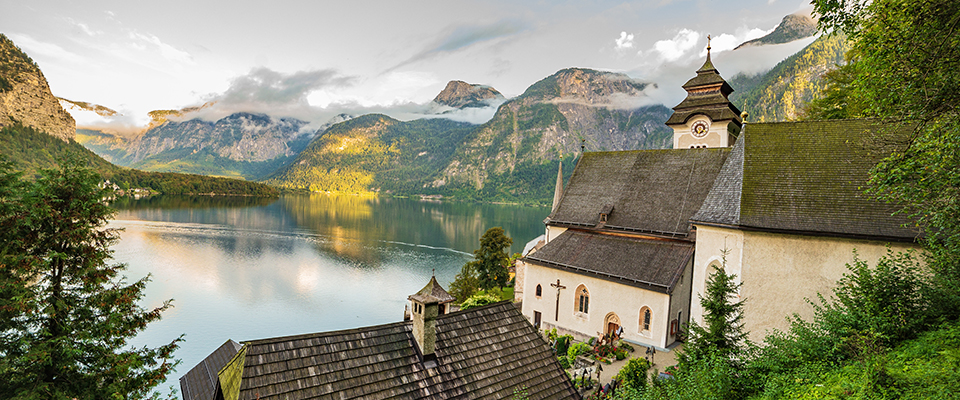
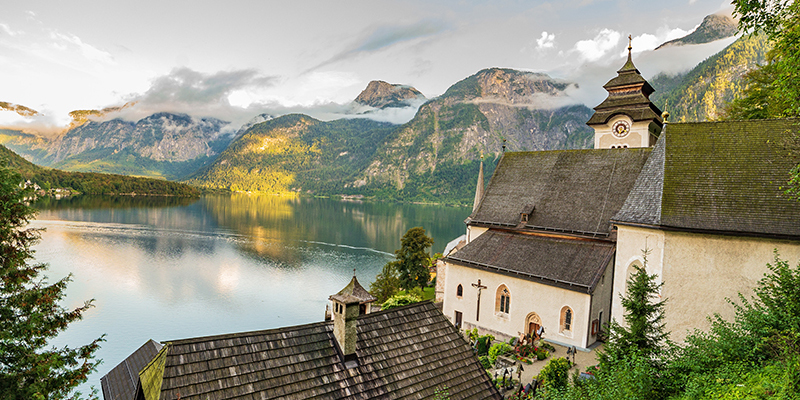
W06 Assignment Update 2
A second update of my W06 assignent.

diff --git a/assignments/lesson-6/preston-6.html b/assignments/lesson-6/preston-6.html
@@ -1,43 +1,46 @@
 <!DOCTYPE html>
 <html>
-    <head>
-        <meta charset="utf-8">
-        <meta name="viewport" content="width=device-width, initial-scale=1, maximum-scale=1">
-        <title>CIT 230 Assignment | Week 04 | Preston Town Page</title>
-        <meta name="description" content="Preston Town Page Build">
-        <link rel="stylesheet" href="css/normalize.css">
-        <link rel="stylesheet" href="css/small-6.css">
-        <link rel="stylesheet" href="css/large-6.css">
-        <link href="https://fonts.googleapis.com/css?family=Nunito&display=swap" rel="stylesheet">
-    </head>
-    <body>
-        <!-- Header Codes Here -->
-        <header>
-            <img src="images/weatheria-logo-01.png" alt="Weatheria Logo">
-            <h1>Weatheria</h1>
-            <h2>Your Personal Weather Companion</h2>
-        </header>
 
-        <!-- Navigation Codes Here -->
-        <nav class="clearfix">
-            <ul>
-                <li><a href="#">Home</a></li>
-                <li class="active"><a href="#">Preston</a></li>
-                <li><a href="#">Soda Springs</a></li>
-                <li><a href="#">Fish Haven</a></li>
-                <li><a href="#">Storm Center</a></li>
-                <li><a href="#">Gallery</a></li>
-            </ul>
-        </nav>
+<head>
+    <meta charset="utf-8">
+    <meta name="viewport" content="width=device-width, initial-scale=1, maximum-scale=1">
+    <title>CIT 230 Assignment | Week 04 | Preston Town Page</title>
+    <meta name="description" content="Preston Town Page Build">
+    <link rel="stylesheet" href="css/normalize.css">
+    <link rel="stylesheet" href="css/small-6.css">
+    <link rel="stylesheet" href="css/large-6.css">
+    <link href="https://fonts.googleapis.com/css?family=Nunito&display=swap" rel="stylesheet">
+</head>
 
-        <!-- Main Codes Here -->
-        <main>
-            
-            <section class="sctn sctn-01">
+<body>
+    <!-- Header Codes Here -->
+    <header>
+        <img src="images/weatheria-logo-01.png" alt="Weatheria Logo">
+        <h1>Weatheria</h1>
+        <h2>Your Personal Weather Companion</h2>
+    </header>
+
+    <!-- Navigation Codes Here -->
+    <nav class="clearfix">
+        <button onclick="toggleMenu()">&#9776;</button>
+        <ul id="primaryNav" class="hide">
+            <li><a href="#">Home</a></li>
+            <li class="active"><a href="#">Preston</a></li>
+            <li><a href="#">Soda Springs</a></li>
+            <li><a href="#">Fish Haven</a></li>
+            <li><a href="#">Storm Center</a></li>
+            <li><a href="#">Gallery</a></li>
+        </ul>
+    </nav>
+
+    <!-- Main Codes Here -->
+    <main>
+
+        <section class="sctn sctn-01">
             <h1>Preston Town</h1>
             <div class="sctn-hero">
                 <figure>
-                    <img src="images/img-hero.jpg" alt="Preston Town">
+                    <img src="images/img-hero-600px.jpg" alt="Preston Town">
                 </figure>
                 <table>
                     <th colspan="2">Weather Summary</th>
@@ -63,9 +66,9 @@
                     </tr>
                 </table>
             </div>
-            </section>
+        </section>
 
-                <!--
+        <!--
                 <div class="forecast-div">
                     <section class="forecast-sec">
                         <h2>5 Day Forecast</h2>
@@ -89,49 +92,57 @@
                 </div>
                 -->
 
-            <section class="sctn sctn-03">
-                <figure>
-                    <img src="images/img-art.jpg" alt="friends photo">
-                </figure>
-                <article>
-                    <h2> Friends Review </h2>
-                    <h3> By: Edvard Jimenez </h3>
-                    <p>
-                        Lorem ipsum dolor sit amet, consectetur adipiscing elit, sed do eiusmod tempor incididunt ut labore et dolore magna aliqua.
-                        Sit amet consectetur adipiscing elit duis tristique sollicitudin.
-                        Integer malesuada nunc vel risus commodo viverra.
-                        Eget gravida cum sociis natoque penatibus et magnis.
-                        Auctor urna nunc id cursus metus aliquam. Leo vel fringilla est ullamcorper.
-                        Mauris in aliquam sem fringilla ut morbi tincidunt augue interdum.
-                    </p>
-                </article>
-            </section>
-        </main>
-
-            <!-- Footer Codes Here -->
-        <footer>
-            <div class="footer-info">
-                <h2>Weatheria</h2>
-                <hr>
+        <section class="sctn sctn-03">
+            <figure>
+                <img src="images/img-art.jpg" alt="friends photo">
+            </figure>
+            <article>
+                <h2> Friends Review </h2>
+                <h3> By: Edvard Jimenez </h3>
                 <p>
-                    Exact Address, <br>
-                    Town, City, Zipcode
-                    <br><br>
-                    Telephone Number<br>
-                    Email Address
-                    <br><br>
-                    <a href="https://www.facebook.com/" target="_blank"><img class="footer-icon" src="images/facebook.png" alt="facebook icon"></a>
-                    <a href="https://instagram.com/" target="_blank"><img class="footer-icon" src="images/instagram.png" alt="instagram icon"></a>
-                    <a href="https://twitter.com/" target="_blank"><img class="footer-icon" src="images/twitter.png" alt="twitter icon"></a>
-                    <a href="https://youtube.com/" target="_blank"><img class="footer-icon" src="images/youtube.png" alt="youtube icon"></a>
+                    Lorem ipsum dolor sit amet, consectetur adipiscing elit, sed do eiusmod tempor incididunt ut labore
+                    et dolore magna aliqua.
+                    Sit amet consectetur adipiscing elit duis tristique sollicitudin.
+                    Integer malesuada nunc vel risus commodo viverra.
+                    Eget gravida cum sociis natoque penatibus et magnis.
+                    Auctor urna nunc id cursus metus aliquam. Leo vel fringilla est ullamcorper.
+                    Mauris in aliquam sem fringilla ut morbi tincidunt augue interdum.
                 </p>
-                <figure>
-                    <img src="images/img-map.jpg" alt="map">
-                </figure>
-            </div>
-            <div class="footer-copy">
-                <p>&copy;2019 Weatheria | Edvard Jimenez | CIT 230</p>
-            </div>
-        </footer>
-    </body>
+            </article>
+        </section>
+    </main>
+
+    <!-- Footer Codes Here -->
+    <footer>
+        <div class="footer-info">
+            <h2>Weatheria</h2>
+            <hr>
+            <p>
+                Exact Address, <br>
+                Town, City, Zipcode
+                <br><br>
+                Telephone Number<br>
+                Email Address
+                <br><br>
+                <a href="https://www.facebook.com/" target="_blank"><img class="footer-icon" src="images/facebook.png"
+                        alt="facebook icon"></a>
+                <a href="https://instagram.com/" target="_blank"><img class="footer-icon" src="images/instagram.png"
+                        alt="instagram icon"></a>
+                <a href="https://twitter.com/" target="_blank"><img class="footer-icon" src="images/twitter.png"
+                        alt="twitter icon"></a>
+                <a href="https://youtube.com/" target="_blank"><img class="footer-icon" src="images/youtube.png"
+                        alt="youtube icon"></a>
+            </p>
+            <figure>
+                <img src="images/img-map.jpg" alt="map">
+            </figure>
+        </div>
+        <div class="footer-copy">
+            <p>&copy;2019 Weatheria | Edvard Jimenez | CIT 230</p>
+        </div>
+    </footer>
+
+    <script src="scripts/hamburger.js"></script>
+</body>
+
 </html>

diff --git a/assignments/lesson-6/css/small-6.css b/assignments/lesson-6/css/small-6.css
@@ -16,22 +16,53 @@ header {
     padding: 1rem 2%;
 }
 
-header h1 { margin: 0; }
-header h2 { margin: 0; }
+header img {
+    display: block;
+    margin: 0 auto;
+}
+
+header h1, h2 {
+    text-align: center;
+    color: #fff;
+    margin: 0;
+}
+
+header h2 {
+    font-size: 1rem;
+    color: #044166;
+    margin-bottom: 1rem;
+}
 
 /* Navigation Rules */
 nav { background-color: #044166; }
+
+nav button {
+    margin: .2rem 2%;
+    background-color: transparent;
+    border: none;
+    font-size: 1.6rem;
+    color: #eee;
+}
+
 nav ul { margin: 0; padding: 0; }
 nav li { list-style-type: none;}
 nav li.active { background-color: #033249; }
 nav a {
-    display: block;
     padding: .8rem;
     color: #eee;
     text-align: center;
     text-decoration: none;
 }
-nav a:hover { background-color: #033249; }
+
+nav ul li a {
+    display: block;
+    padding: .8rem 2%;
+    border-top: 1px solid rgba(255, 255, 255, 0.1);
+}
+
+nav a:hover { background-color: rgba(3, 50, 73, 0.9); }
+
+nav ul.hide { display: none; }
 
 .clearfix:after {
     content: "";
@@ -60,17 +91,19 @@ nav a:hover { background-color: #033249; }
 .sctn-01 figure img { width: 100%; }
 
 .sctn-01 table th {
-    padding: 1rem;
+    padding: .5rem;
 }
 
 .sctn-01 table {
     position: absolute;
-    top: 1.5rem;
-    left: 1.5rem;
+    border: 1px solid;
+    top: 1rem;
+    left: 1rem;
     background-color: #39c2d7;
+    font-size: .8rem;
     color: white;
-    width: 13rem;
-    padding: 1rem 1rem;
+    width: 10rem;
+    padding: .8rem .5rem;
     opacity: 0.9;
 }
 

diff --git a/assignments/lesson-6/css/large-6.css b/assignments/lesson-6/css/large-6.css
@@ -1,6 +1,12 @@
-@media only screen and (min-width: 1028px) {
+@media only screen and (min-width: 64rem) {
+    nav button { display: none; }
+    nav ul.hide { display: block; }
     nav li {
         float: left;
         width: 16%;
+    }
+
+    nav ul li a {
+        border: none;
     }
 } /* End of Media Query */

diff --git a/assignments/lesson-6/scripts/hamburger.js b/assignments/lesson-6/scripts/hamburger.js
@@ -1,3 +1,3 @@
 function toggleMenu() {
-	document.getElementsByClassName("navigation")[0].classList.toggle("responsive");
+	document.getElementById("primaryNav").classList.toggle("hide");
 }
